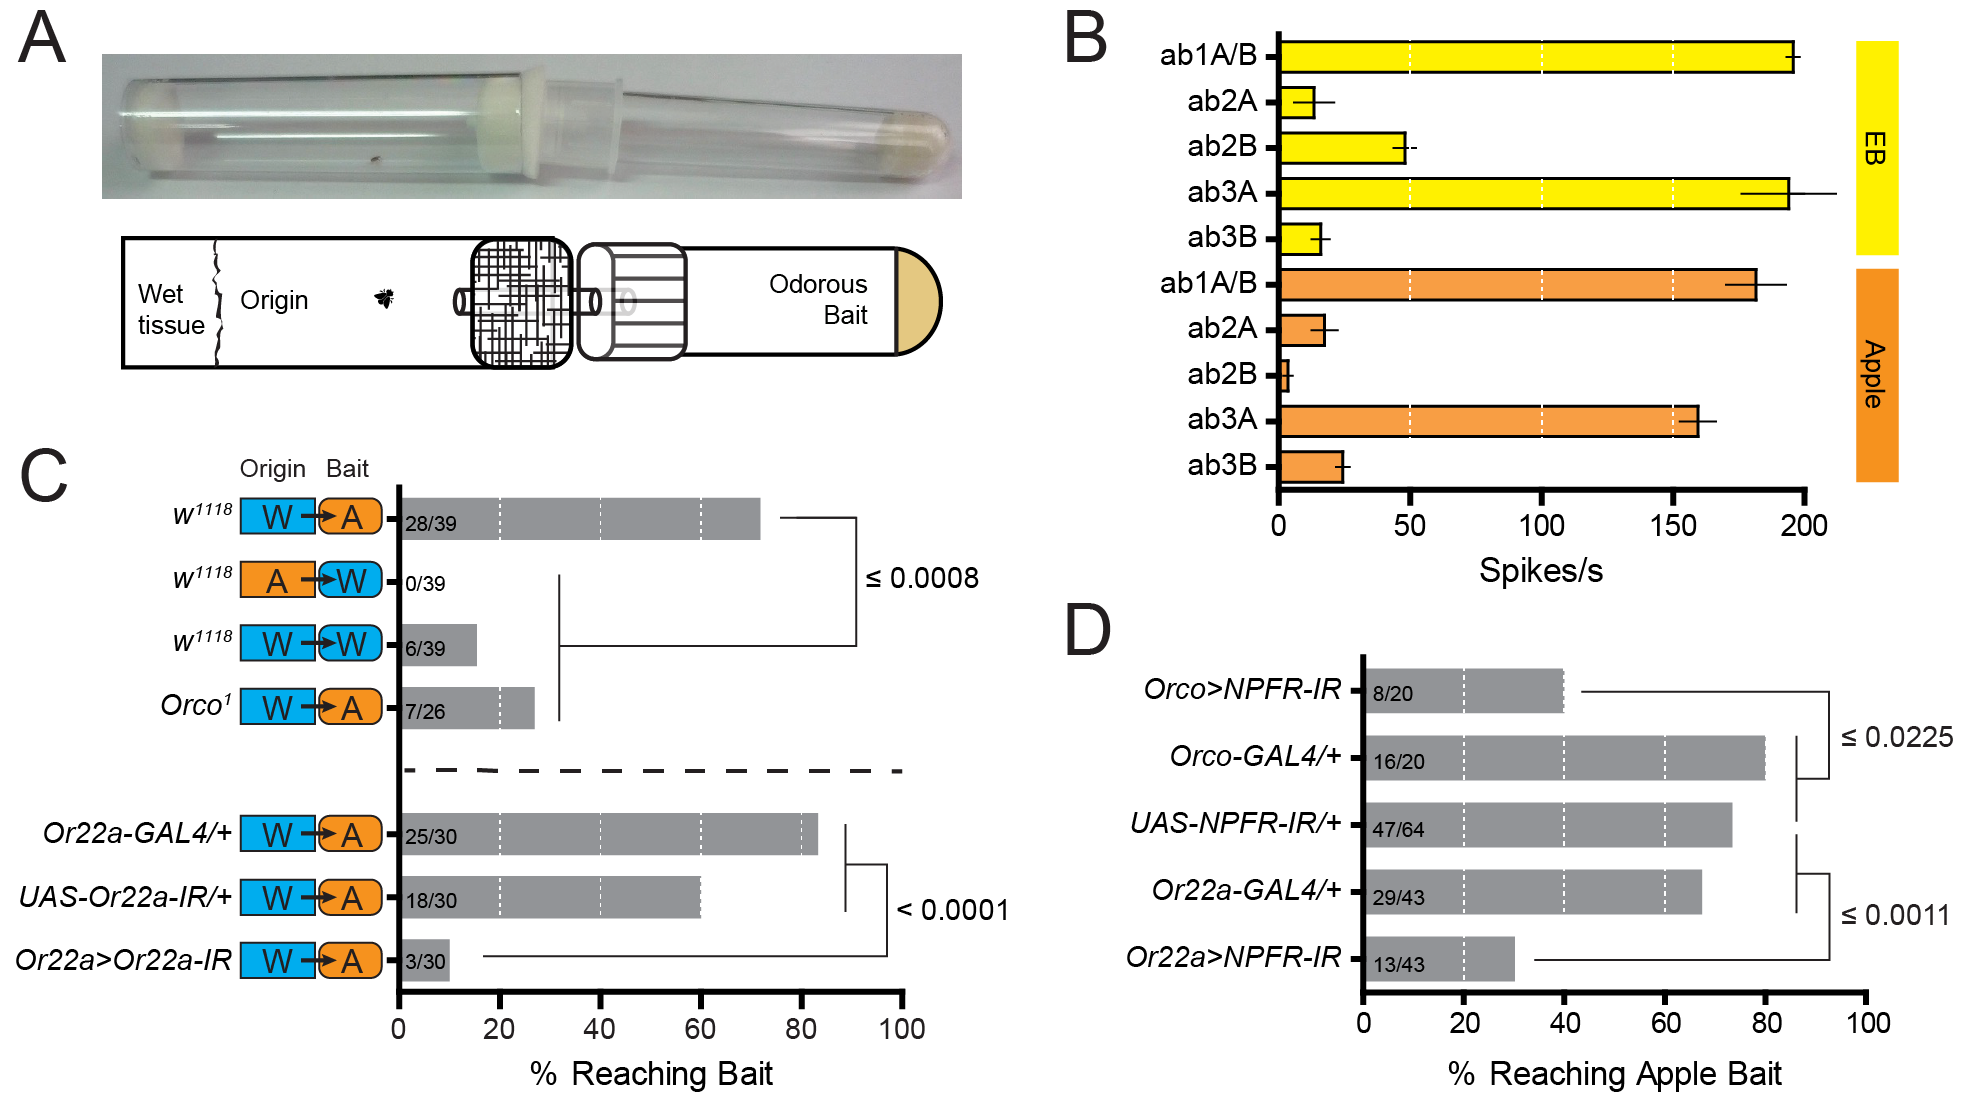
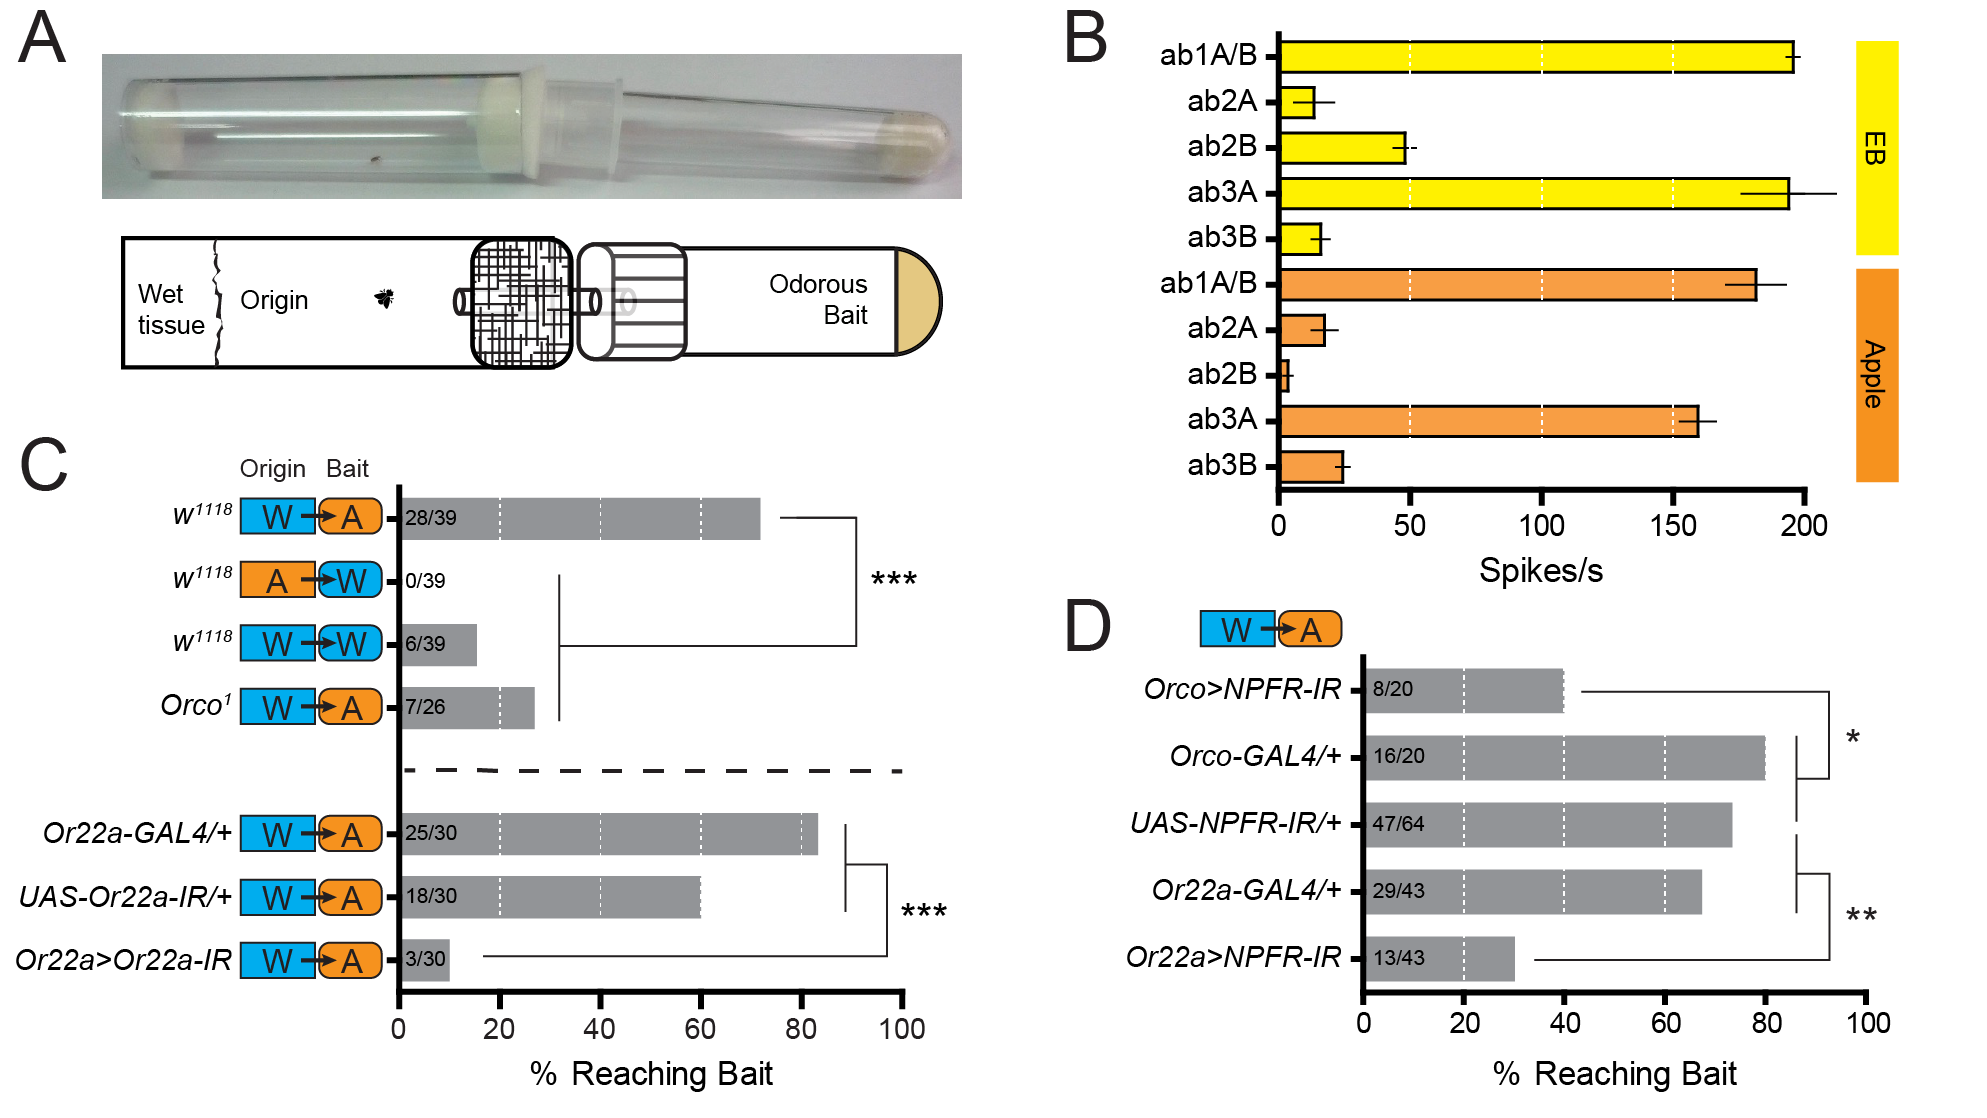
Figure 5 edit

diff --git a/figures/fig-5/caption.md b/figures/fig-5/caption.md
@@ -1,11 +1,11 @@
-**Figure 5. NPF-NPFR signaling modulates fly's behavioral attraction to fruit odor via Or22a expressing ab3A neurons**
+**Figure 5. NPFR in ab3A neurons modulates olfactory-guided behavior**
 
-(A) Schematic drawing of single-fly attraction assay.
-(B) Ethyl butyrate (10^-4^ v/v) and fresh apple (10% v/v) juice show almost identical odor response profile by the different types of OSNs.
-Data are presented as means ± standard error, n ≥ 3.
-(C) The quantified result of single-fly attraction assay.
-_w^1118^_ flies are robustly attracted to fresh apple juice, while they are less interested in water.
-_Orco^1^_ mutants with non-functional ORNs are not able to locate fresh apple juice.
-ab3A neuron-specific knock-down of Or22a receptor disrupt fly's attraction behavior to apple juice.
+(A) Photo and schematic of the single fly olfactory trap assay.
+(B) Ethyl butyrate (10^-4^ v/v) and fresh apple juice (10^-1^ v/v) induce very similar electrophysiological responses in the OSNs of the large antennal basiconic sensilla ab1--ab3.
+Odor-evoked responses are presented as means ± standard error, n ≥ 3.
+(C) Control experiments validating the single fly olfactory trap assay.
+_w^1118^_ flies are robustly attracted to fresh apple juice, but not to water.
+_Orco^1^_ mutants, which have defective OR trafficking and severely disrupted odor detection, show only slightly higher attraction to the apple juice bait than _w^1118^_ flies show to water.
+Ab3A neuron-specific knock-down of Or22a disrupts attraction to apple juice, as _Or22a>Or22a-IR_ flies are much less successful finding the bait than heterozygous controls (crossed to _w^1118^_).
 (D) Knock-down of NPFR in ORNs and in ab3A neurons, by using ORN-specific Orco-Gal4 and Or22a-Gal4 respectively, show significant decrease in attraction to apple juice.
-Data for (C, D) are presented as bars with indicated n numbers, Fisher's exact test._
+Data in C and D are presented as bars with indicated n numbers, Fisher's exact test, _P_ ≤ 0.01 (\*\*), _P_ ≤ 0.001 (\*\*\*)..

diff --git a/8-methods.md b/8-methods.md
@@ -29,7 +29,7 @@ We performed whole-mount brain immunostaining experiments as previously describe
 As secondary antibodies, we used goat anti-rabbit IgG Alexa Fluor 488 and goat anti-mouse IgG Alexa Fluor 594 (A-11005, Thermofisher, USA) at 1:100 v/v.
 
 ## Behavior
-For the behavioral assays, we aged flies 7--10 days on standard food and then habituated them on apple juice for 1 day.
+For the behavioral assays, we aged male flies 7--10 days on standard food and then habituated them on apple juice for 1 day.
 For each genotype or condition, we introduced individual flies (n ≥ 10) into origin vials connected to bait vials by a narrow length of straw just wide enough for a single fly to pass.
 Figure 5A shows a photo and a schematic of a completed olfactory trap assembly.
 After aging and habituation, we placed each loaded trap assembly in a dark 25 °C incubator for 40 hours.
